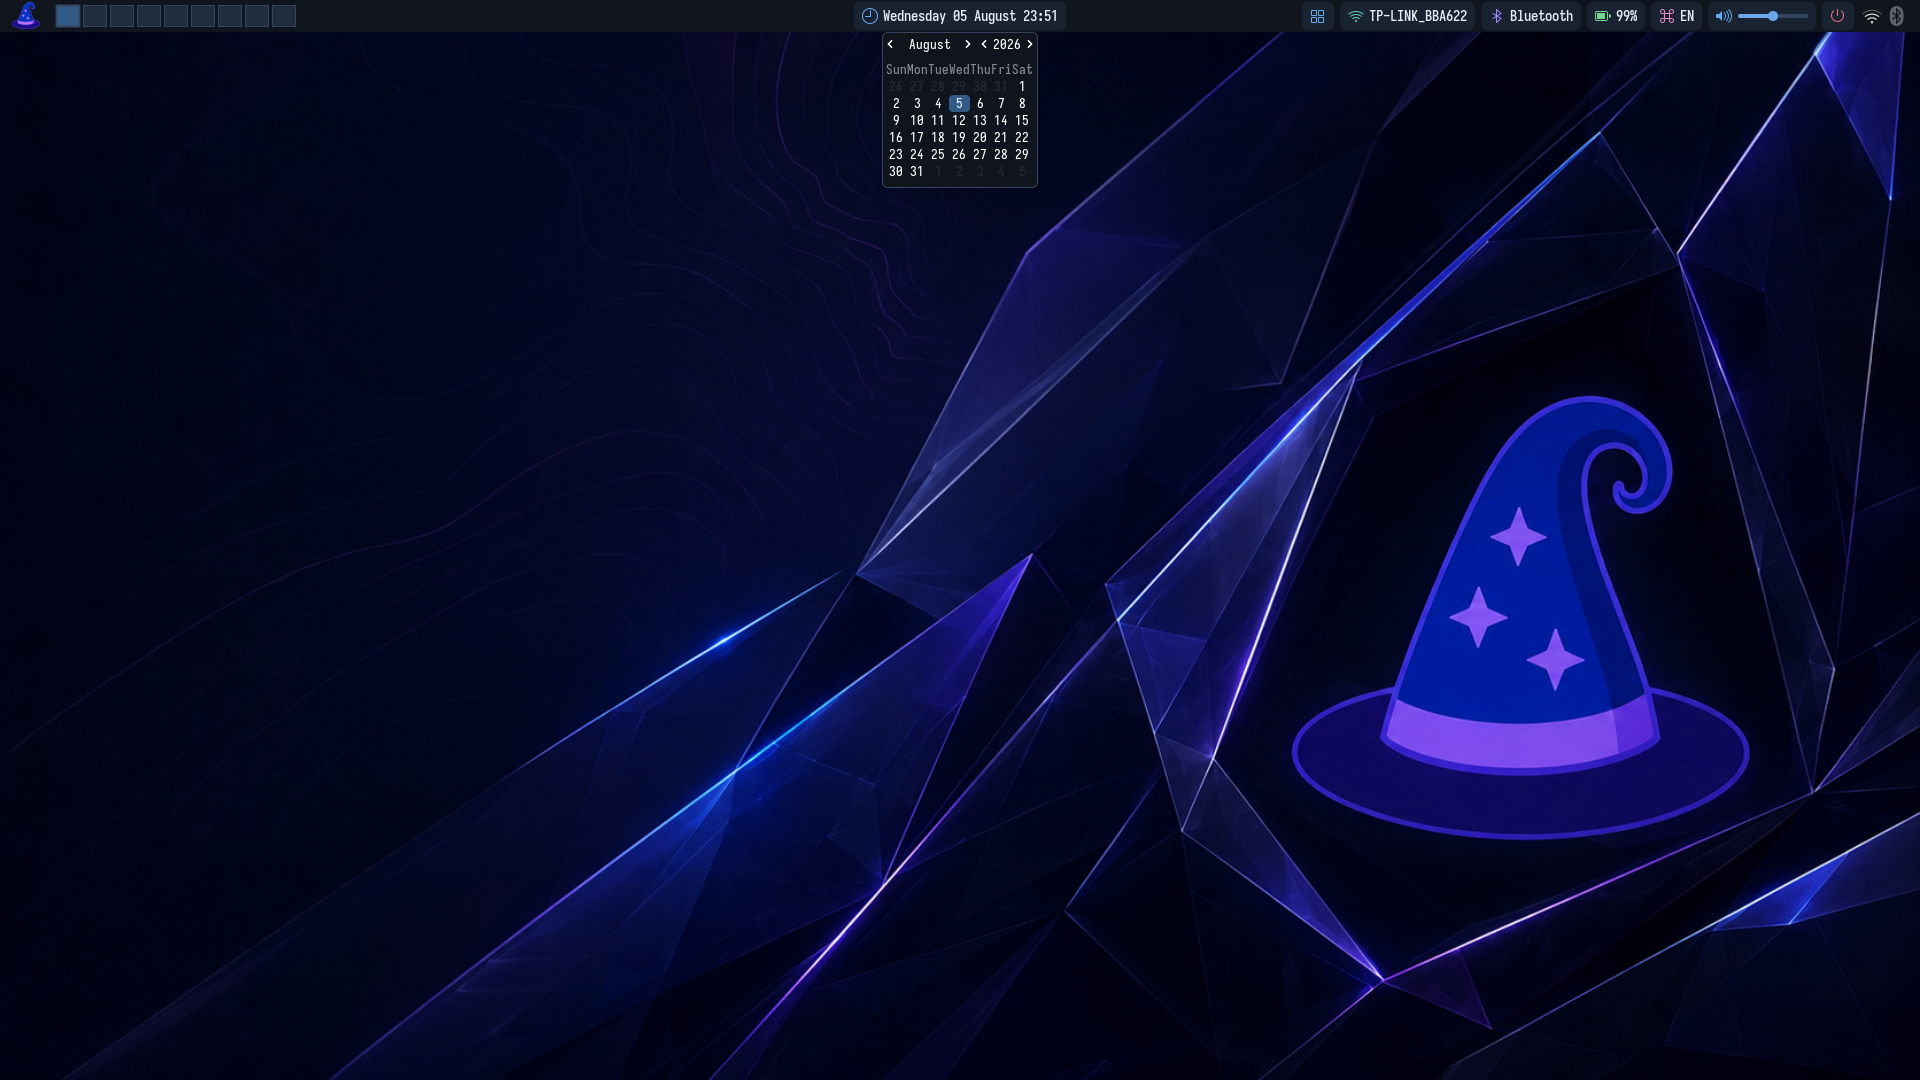
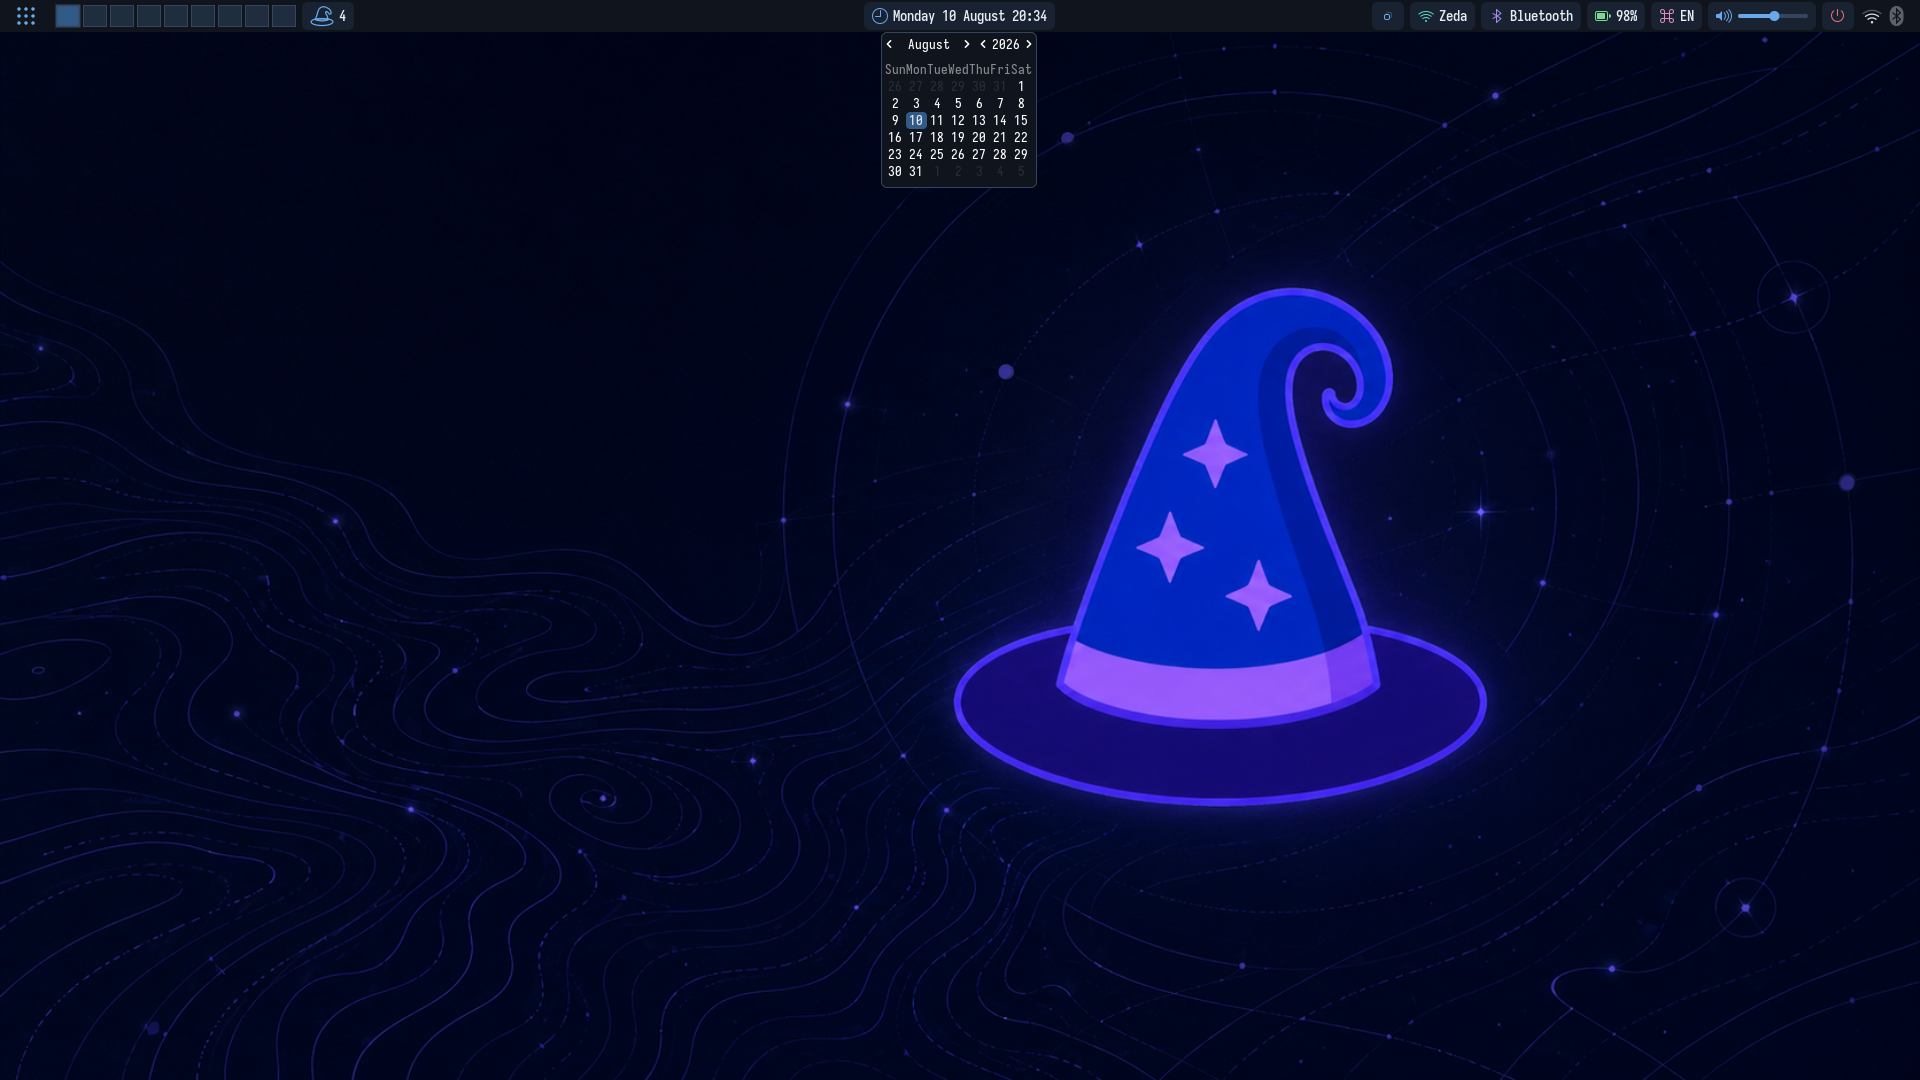
Update screenshots

diff --git a/README.md b/README.md
@@ -24,7 +24,7 @@ This is a clean-room core focused on predictable ownership and a small stable fe
 
 | Desktop | Calendar popup | Window switcher |
 | :---: | :---: | :---: |
-| [![HatWM desktop with a terminal](docs/screenshots/hatwm-desktop.png)](docs/screenshots/hatwm-desktop.png) | [![HatWM desktop with the calendar open](docs/screenshots/hatwm-calendar.png)](docs/screenshots/hatwm-calendar.png) | [![HatWM window switcher](docs/screenshots/screenshot-2026-08-10_20-30-08.png)](docs/screenshots/screenshot-2026-08-10_20-30-08.png) |
+| [![HatWM desktop with a terminal](docs/screenshots/hatwm-desktop.png)](docs/screenshots/hatwm-desktop.png) | [![HatWM desktop with the calendar open](docs/screenshots/hatwm-calendar.png)](docs/screenshots/hatwm-calendar.png) | [![HatWM window switcher](docs/screenshots/hatwm-the-hat.png)](docs/screenshots/screenshot-2026-08-10_20-30-08.png) |
 
 Click the preview to view the full-resolution screenshot.
 
